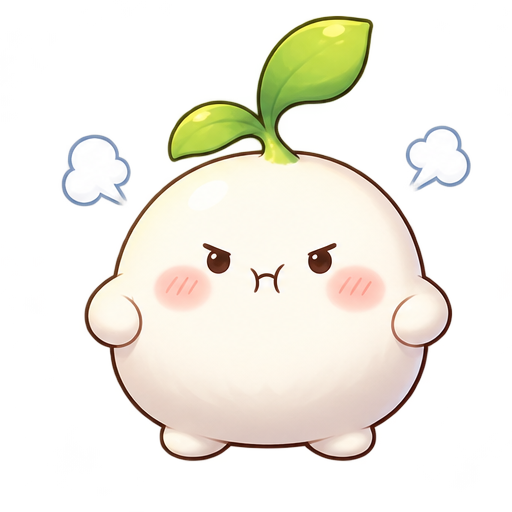
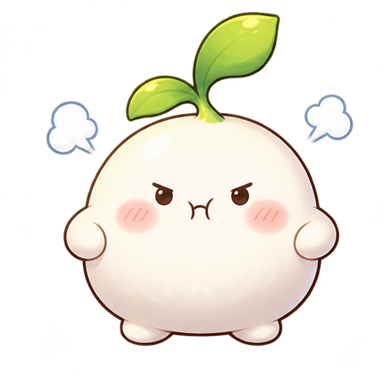
메타데이터 설정 및 이미지 에셋 활용

diff --git a/src/main.js b/src/main.js
@@ -3,6 +3,31 @@ import './style.css'
 const app = document.querySelector('#app')
 const sampleCount = 5
 const saveKey = 'chami-sugar-lab-research-v1'
+const chamiSprites = [
+  'chami-cheerful', 'chami-sleepy', 'chami-determined', 'chami-surprised', 'chami-dozy', 'chami-sparkle',
+  'chami-cheering', 'chami-yawning', 'chami-curious', 'chami-bashful', 'chami-grumpy', 'chami-dizzy',
+  'chami-triple-leaf', 'chami-curled-leaf', 'chami-double-sprout', 'chami-mint-leaf', 'chami-dew-leaf', 'chami-pear-shape',
+].map((name) => `/images/variants/chami/${name}.png`)
+const sitriDialogues = [
+  '자, 누가 제일 달콤할까?',
+  '차미의 당도는 제가 직접 확인할게요.',
+  '연구 결과는… 일단 귀여우면 합격!',
+  '차미야, 오늘도 팡팡 협조 부탁해!',
+]
+
+function shuffle(items) {
+  const shuffled = [...items]
+  for (let index = shuffled.length - 1; index > 0; index -= 1) {
+    const target = Math.floor(Math.random() * (index + 1))
+    ;[shuffled[index], shuffled[target]] = [shuffled[target], shuffled[index]]
+  }
+  return shuffled
+}
+
+function randomChamiSprite() {
+  return chamiSprites[Math.floor(Math.random() * chamiSprites.length)]
+}
+
 const trophyCatalog = [
   { id: 'first-round', icon: '🧪', title: '첫 연구', detail: '첫 당도 연구를 마쳤다' },
   { id: 'sweet-95', icon: '🍯', title: '고당도 경보', detail: '95째S 이상 차미를 발견했다' },
@@ -388,9 +413,11 @@ function renderCollection() {
 }
 
 function makeSamples() {
+  const spriteOrder = shuffle(chamiSprites)
   return Array.from({ length: sampleCount }, (_, index) => ({
     id: index + 1,
     sugar: Math.floor(Math.random() * 46) + 54,
+    sprite: spriteOrder[index],
     revealed: false,
   }))
 }
@@ -401,7 +428,7 @@ function renderSamples(animateId = null) {
     <article class="sample ${sample.revealed ? 'is-revealed' : ''} ${sample.winner ? 'is-sweetest' : ''} ${sample.id === animateId ? 'just-measured' : ''}" data-id="${sample.id}">
       <span class="sample-number">SAMPLE 0${sample.id}</span>
       <span class="sample-figure" style="--hit-tilt:${Math.round(Math.random() * 44 - 22)}deg; --hit-shift:${Math.round(Math.random() * 28 - 14)}px">
-        <img src="/images/chami.png" alt="" />
+        <img src="${sample.sprite}" alt="" />
         <span class="impact" aria-hidden="true">팡!${sample.revealed ? `<small>${sample.sugar}°S</small>` : ''}</span>
       </span>
       <span class="sugar-result">${sample.revealed ? `${sample.sugar}<small>°S</small>` : '<small>측정 대기 중</small>'}</span>
@@ -567,6 +594,7 @@ function finishFizzRound() {
 function startFizzRound() {
   fizzState.running = true
   fizzState.count = 0
+  document.querySelector('#fizz-chami-image').src = randomChamiSprite()
   fizzState.endsAt = Date.now() + 7000
   document.querySelector('#fizz-count').textContent = '0'
   document.querySelector('#fizz-clock').textContent = '7.0'
@@ -620,6 +648,7 @@ function startCatchRound() {
   if (catchState.running) return
   catchState.running = true
   catchState.count = 0
+  document.querySelector('#catch-target img').src = randomChamiSprite()
   catchState.endsAt = Date.now() + 10000
   document.querySelector('#catch-count').textContent = '0'
   document.querySelector('#catch-clock').textContent = '10.0'
@@ -697,7 +726,7 @@ app.innerHTML = `
         <span class="hero-spark spark-one" aria-hidden="true">✳</span>
         <span class="hero-spark spark-two" aria-hidden="true">✦</span>
         <img class="sitri" src="/images/sitri-hero-expanded.png" alt="머리 장식부터 허벅지까지 온전히 보이는 시트리 일러스트" />
-        <div class="speech-card"><span class="speech-dot"></span> 자, 누가 제일 달콤할까?</div>
+        <div class="speech-card"><span class="speech-dot"></span><span class="speech-line">${sitriDialogues[Math.floor(Math.random() * sitriDialogues.length)]}</span></div>
         <span class="art-caption">SITRI · SUGAR RESEARCHER</span>
       </div>
       <span class="hero-index" aria-hidden="true">01 <i>—</i> 02</span>
@@ -723,6 +752,7 @@ app.innerHTML = `
       </div>
       <div class="sample-board" id="sample-board"></div>
       <div class="winner-panel" id="winner-panel" hidden aria-live="polite">
+        <img class="winner-sitri" src="/images/variants/sitri/sitri-trophy-mascot.png" alt="" />
         <span class="winner-crown" aria-hidden="true">♛</span>
         <span><b id="winner-title">오늘의 당도왕!</b><small id="winner-copy"></small></span>
         <span class="winner-confetti" aria-hidden="true">✦ ✳ ✦</span>
@@ -747,6 +777,7 @@ app.innerHTML = `
           <div class="mini-game-topline"><span>02 · 정밀 측정실</span><span class="mini-game-icon" aria-hidden="true">⌁</span></div>
           <h3>당도계 눈금 맞추기</h3>
           <p class="mini-game-copy">목표 구간을 지나가는 바늘을 팡! 멈춰요. 손 떨림은 연구의 일부입니다.</p>
+          <div class="mini-game-guide"><img src="/images/variants/sitri/sitri-pointing-mascot.png" alt="" loading="lazy" decoding="async" /><p><b>시트리의 한마디</b><span>초록 구간에 멈추면 연구원 배지에 가까워져요!</span></p></div>
           <div class="gauge-readout"><span>현재 측정값</span><b id="gauge-readout">—<small>°S</small></b></div>
           <div class="gauge-track" aria-label="당도계 바늘 눈금">
             <span class="gauge-target" id="gauge-target" style="left:50%"><i>목표</i></span>
@@ -761,8 +792,9 @@ app.innerHTML = `
           <div class="mini-game-topline"><span>03 · 기포 제거반</span><span class="mini-game-icon" aria-hidden="true">✳</span></div>
           <h3>차미 기포 빼기</h3>
           <p class="mini-game-copy">차미 안에 기포가 들어갔대요. 7초 동안 팡팡 눌러서 빼주세요!</p>
+          <div class="mini-game-guide"><img src="/images/variants/sitri/sitri-sugar-meter-mascot.png" alt="" loading="lazy" decoding="async" /><p><b>시트리의 한마디</b><span>기포가 설탕으로 도망가기 전에 팡팡!</span></p></div>
           <div class="fizz-stage">
-            <div class="fizz-chami"><img src="/images/chami.png" alt="" /><span class="fizz-bubble bubble-one"></span><span class="fizz-bubble bubble-two"></span><span class="fizz-bubble bubble-three"></span></div>
+            <div class="fizz-chami"><img id="fizz-chami-image" src="${randomChamiSprite()}" alt="" /><span class="fizz-bubble bubble-one"></span><span class="fizz-bubble bubble-two"></span><span class="fizz-bubble bubble-three"></span></div>
             <div class="fizz-score"><b id="fizz-count">0</b><span>회 팡!</span><small><b id="fizz-clock">7.0</b>초</small></div>
           </div>
           <div class="fizz-timer"><span id="fizz-timer-fill"></span></div>
@@ -779,7 +811,7 @@ app.innerHTML = `
           <h2 id="collection-title">연구원 수집첩</h2>
           <p>실험하고, 기록하고, 괜히 뿌듯해하세요.</p>
         </div>
-        <div class="collection-count"><b id="badge-count">0</b><span> / 06 배지</span></div>
+        <div class="collection-count"><img class="collection-mascot" src="/images/variants/sitri/sitri-trophy-mascot.png" alt="" /><b id="badge-count">0</b><span> / 06 배지</span></div>
       </div>
       <div class="research-stats">
         <div><span>완료한 연구</span><b id="round-record">0</b><small>ROUND</small></div>
@@ -799,9 +831,10 @@ document.querySelector('.mini-game-grid')?.insertAdjacentHTML('beforeend', `
     <div class="mini-game-topline"><span>04 · 도망 차미 포착</span><span class="mini-game-icon" aria-hidden="true">🐇</span></div>
     <h3>차미 잡아라!</h3>
     <p class="mini-game-copy">10초 동안 도망치는 차미를 눌러 포착하세요. 연속으로 잡으면 기록을 남겨요!</p>
+    <div class="mini-game-guide"><img src="/images/variants/sitri/sitri-wave-mascot.png" alt="" loading="lazy" decoding="async" /><p><b>시트리의 한마디</b><span>차미가 도망간다! 손가락 준비됐죠?</span></p></div>
     <div class="catch-score"><b id="catch-count">0</b><span>마리 포착</span><small><b id="catch-clock">10.0</b>초 남음</small></div>
     <div class="catch-arena" id="catch-arena" aria-label="움직이는 차미 포착 구역">
-      <button class="catch-target" id="catch-target" type="button" aria-label="도망치는 차미 잡기" disabled><img src="/images/chami.png" alt="차미" /></button>
+      <button class="catch-target" id="catch-target" type="button" aria-label="도망치는 차미 잡기" disabled><img src="${randomChamiSprite()}" alt="차미" /></button>
       <span class="catch-combo" id="catch-combo" aria-hidden="true">잡았다!</span>
     </div>
     <div class="fizz-timer catch-timer"><span id="catch-timer-fill"></span></div>

diff --git a/src/style.css b/src/style.css
@@ -49,6 +49,7 @@ h1 em { color: var(--orange); font-style: normal; }
 .speech-card { position: absolute; z-index: 2; top: 24%; right: 15%; padding: 13px 16px; border: 1px solid rgba(40, 40, 32, .11); border-radius: 4px; background: rgba(255, 253, 247, .93); box-shadow: 0 10px 30px rgba(50, 45, 34, .08); font-size: 11px; font-weight: 600; animation: float-card 4s ease-in-out infinite; }
 .speech-card::after { position: absolute; right: 28px; bottom: -6px; width: 10px; height: 10px; border-right: 1px solid rgba(40,40,32,.11); border-bottom: 1px solid rgba(40,40,32,.11); background: #fffdf7; content: ''; transform: rotate(45deg); }
 .speech-dot { display: inline-block; width: 6px; height: 6px; margin-right: 7px; border-radius: 50%; background: var(--orange); vertical-align: 1px; }
+.speech-line { display: inline; }
 @keyframes float-card { 0%, 100% { transform: translateY(0); } 50% { transform: translateY(-5px); } }
 .hero-spark { position: absolute; z-index: 2; color: #cf895f; }
 .spark-one { top: 17%; left: 11%; font-size: 27px; }
@@ -130,6 +131,7 @@ h2 { margin-bottom: 8px; font-size: clamp(29px, 3.4vw, 42px); letter-spacing: -.
 .winner-panel[hidden] { display: none !important; }
 .winner-panel { position: relative; margin-top: 15px; padding: 15px 20px; display: flex; align-items: center; gap: 14px; overflow: hidden; border: 1px solid #e7c19f; border-radius: 4px; background: #fff0e2; color: #7c492d; }
 .winner-panel.is-visible { animation: winner-panel-in .55s cubic-bezier(.2, 1.3, .4, 1) both; }
+.winner-sitri { width: 60px; height: 74px; flex: 0 0 auto; align-self: flex-end; margin: -6px 0 -15px -4px; object-fit: contain; object-position: bottom; }
 .winner-crown { color: var(--orange); font-size: 29px; }
 .winner-panel b, .winner-panel small { display: block; }
 .winner-panel b { font-size: 13px; }
@@ -157,6 +159,11 @@ h2 { margin-bottom: 8px; font-size: clamp(29px, 3.4vw, 42px); letter-spacing: -.
 .mini-game-icon { color: var(--orange); font-size: 22px; }
 .mini-game-card h3 { margin: 10px 0 8px; font-size: 21px; letter-spacing: -.06em; }
 .mini-game-copy { min-height: 38px; margin-bottom: 14px; color: #777366; font-size: 11px; line-height: 1.7; }
+.mini-game-guide { min-height: 76px; margin: -2px 0 14px; padding: 2px 11px 2px 0; display: flex; align-items: center; gap: 10px; border-top: 1px solid rgba(211,196,171,.65); border-bottom: 1px solid rgba(211,196,171,.65); background: linear-gradient(90deg, rgba(255,255,255,.38), rgba(255,250,239,.76)); }
+.mini-game-guide img { width: 62px; height: 72px; flex: 0 0 auto; align-self: flex-end; object-fit: contain; object-position: bottom; filter: drop-shadow(0 4px 5px rgba(61,48,35,.16)); }
+.mini-game-guide p { margin: 0; display: grid; gap: 4px; }
+.mini-game-guide b { color: #b76b41; font-size: 9px; }
+.mini-game-guide span { color: #716a5e; font-size: 10px; line-height: 1.5; }
 .gauge-readout { margin-bottom: 9px; display: flex; align-items: baseline; justify-content: space-between; color: #888375; font-size: 9px; }
 .gauge-readout > b { color: #49463c; font-size: 20px; }
 .gauge-readout small { padding-left: 3px; color: #a19a8c; font-size: 10px; }
@@ -212,8 +219,9 @@ h2 { margin-bottom: 8px; font-size: clamp(29px, 3.4vw, 42px); letter-spacing: -.
 
 .collection-section { background: #f6f3ec; }
 .collection-heading { margin-bottom: 24px; }
-.collection-count { display: flex; align-items: baseline; gap: 4px; color: #928b7c; font-size: 10px; }
+.collection-count { display: flex; align-items: center; gap: 4px; color: #928b7c; font-size: 10px; }
 .collection-count b { color: var(--orange); font-size: 27px; }
+.collection-mascot { width: 55px; height: 68px; margin-right: 3px; object-fit: contain; object-position: bottom; }
 .research-stats { margin-bottom: 18px; padding: 18px 20px; display: grid; grid-template-columns: repeat(3, 1fr); border: 1px solid var(--line); border-radius: 4px; background: #fbf9f4; }
 .research-stats > div { display: grid; grid-template-columns: auto 1fr; align-items: baseline; column-gap: 8px; padding-left: 20px; border-left: 1px solid var(--line); }
 .research-stats > div:first-child { padding-left: 0; border-left: 0; }
@@ -329,6 +337,10 @@ button:focus-visible, a:focus-visible { outline: 3px solid #bd744b; outline-offs
   .mini-games-section, .collection-section { padding: 58px 6% 52px; }
   .mini-game-grid { grid-template-columns: 1fr; gap: 12px; }
   .mini-game-card { padding: 20px; }
+  .mini-game-guide { min-height: 70px; }
+  .mini-game-guide img { width: 55px; height: 66px; }
+  .winner-sitri { width: 48px; height: 62px; }
+  .collection-mascot { width: 43px; height: 55px; }
   .mini-game-card:last-child:nth-child(odd) { grid-column: auto; width: auto; justify-self: stretch; }
   .quick-dock { right: 50%; bottom: max(9px, env(safe-area-inset-bottom)); width: max-content; max-width: calc(100vw - 16px); transform: translateX(50%); }
   .quick-dock a, .quick-dock button { min-height: 48px; padding: 0 11px; gap: 5px; font-size: 10px; }

diff --git a/index.html b/index.html
@@ -4,11 +4,31 @@
     <meta charset="UTF-8" />
     <meta name="viewport" content="width=device-width, initial-scale=1.0" />
     <meta name="theme-color" content="#f2eee4" />
-    <meta name="description" content="차미 당도 연구소에서 무작위 당도 측정, 정밀 눈금 맞추기, 차미 기포 빼기 미니게임을 즐기고 연구 배지를 모아보세요." />
+    <meta name="color-scheme" content="light" />
+    <meta name="description" content="시트리와 함께 차미들의 당도를 팡팡 측정하고, 미니게임과 연구 트로피를 모아보세요. 차미 당도 연구소의 가벼운 팬게임입니다." />
+    <meta name="robots" content="noindex, nofollow" />
+    <meta property="og:type" content="website" />
+    <meta property="og:locale" content="ko_KR" />
+    <meta property="og:site_name" content="차미 당도 연구소" />
+    <meta property="og:title" content="차미 당도 연구소" />
+    <meta property="og:description" content="시트리와 함께 차미들의 당도를 팡팡 측정하고 연구 트로피를 모아보세요." />
+    <meta property="og:image" content="/images/chami-og.png" />
+    <meta property="og:image:width" content="1200" />
+    <meta property="og:image:height" content="630" />
+    <meta property="og:image:alt" content="차미 당도 연구소의 차미 캐릭터와 연구소 제목" />
+    <meta name="twitter:card" content="summary_large_image" />
+    <meta name="twitter:title" content="차미 당도 연구소" />
+    <meta name="twitter:description" content="시트리와 함께 차미들의 당도를 팡팡 측정하고 연구 트로피를 모아보세요." />
+    <meta name="twitter:image" content="/images/chami-og.png" />
+    <link rel="icon" type="image/png" sizes="32x32" href="/favicon-32.png" />
+    <link rel="icon" type="image/png" sizes="64x64" href="/favicon.png" />
+    <link rel="apple-touch-icon" sizes="180x180" href="/apple-touch-icon.png" />
+    <link rel="manifest" href="/site.webmanifest" />
     <title>차미 당도 연구소</title>
   </head>
   <body>
     <div id="app"></div>
+    <noscript>이 게임을 즐기려면 브라우저에서 JavaScript를 켜 주세요.</noscript>
     <script type="module" src="/src/main.js"></script>
   </body>
 </html>

diff --git a/src/assets/character-variants/README.md b/src/assets/character-variants/README.md
@@ -1,0 +1,23 @@
+# Character image variants
+
+Generated PNG character assets for mini-games, dialogue, collections, and rewards. The source art is retained here; Vite serves the smaller display copies from `public/images/variants/`.
+
+## Chami
+
+The master sprites are 512 × 512, grouped into three six-character sheets:
+
+- Expressions A: cheerful, sleepy, determined, surprised, dozy, sparkle
+- Expressions B: cheering, yawning, curious, bashful, grumpy, dizzy
+- Leaf and silhouette variations: triple leaf, curled leaf, double sprout, mint leaf, dew leaf, pear shape
+
+Runtime copies in `public/images/variants/chami/` are resized to 384 × 384 for lighter page loads. The original 3 × 2 sheets are kept in `chami/` as `chami-expressions-atlas-a.png`, `chami-expressions-atlas-b.png`, and `chami-leaf-variants-atlas.png`.
+
+## Sitri SD
+
+- `sitri-wave-mascot.png`: welcoming wave
+- `sitri-pointing-mascot.png`: points toward a game or panel
+- `sitri-trophy-mascot.png`: celebrates a trophy
+- `sitri-sugar-meter-mascot.png`: reacts to a sugar-meter result
+- `sitri-sd-actions-atlas.png` and `sitri-sd-expressions-atlas.png`: additional four-pose SD sheets
+
+Runtime standalone copies are resized to fit within 512 × 512 in `public/images/variants/sitri/`. High-resolution source images and atlases remain in this folder for future use.
